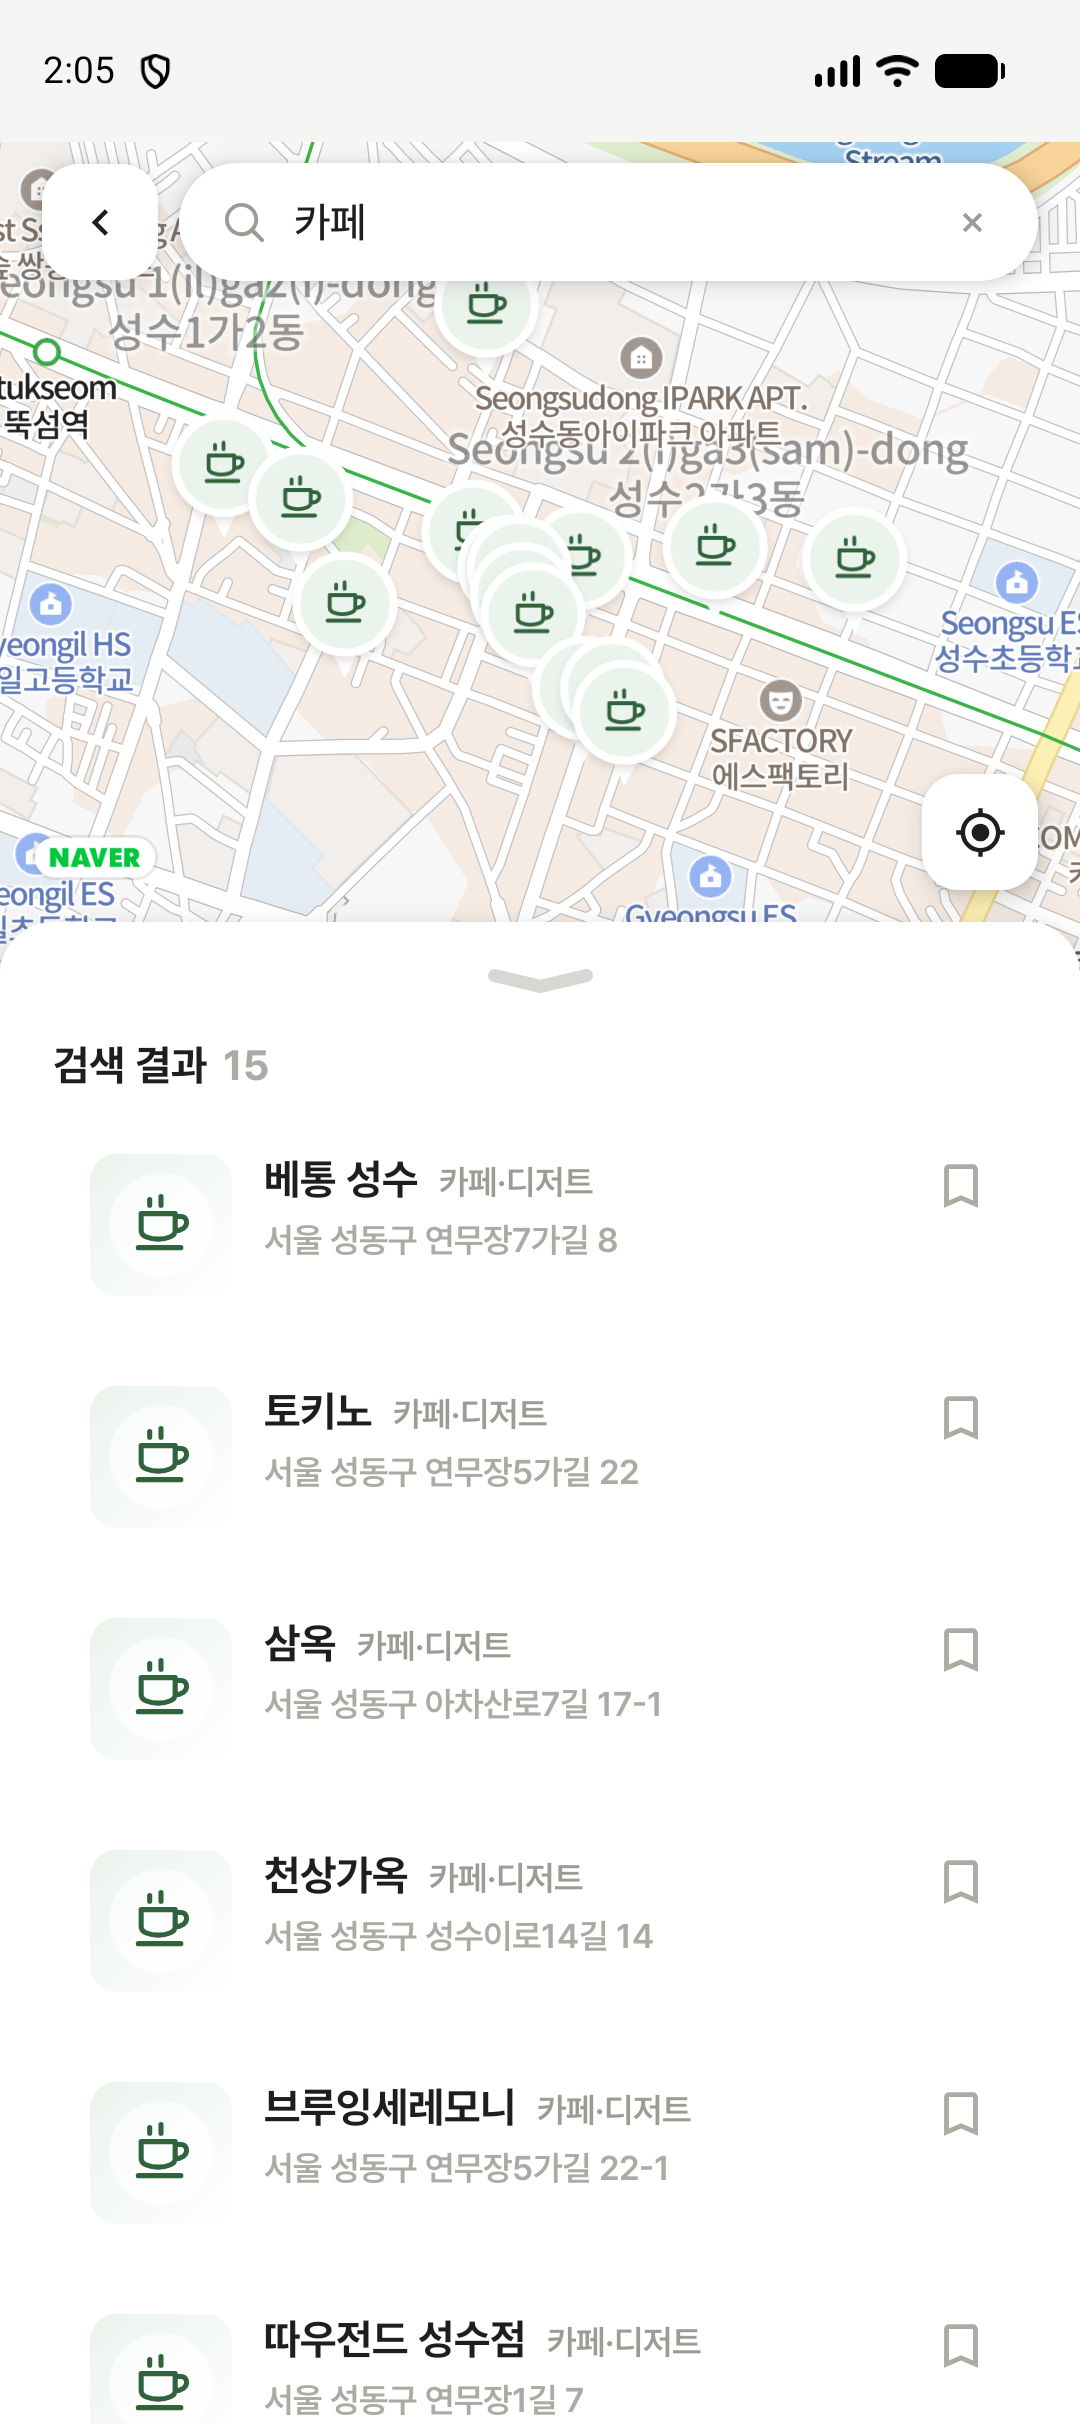
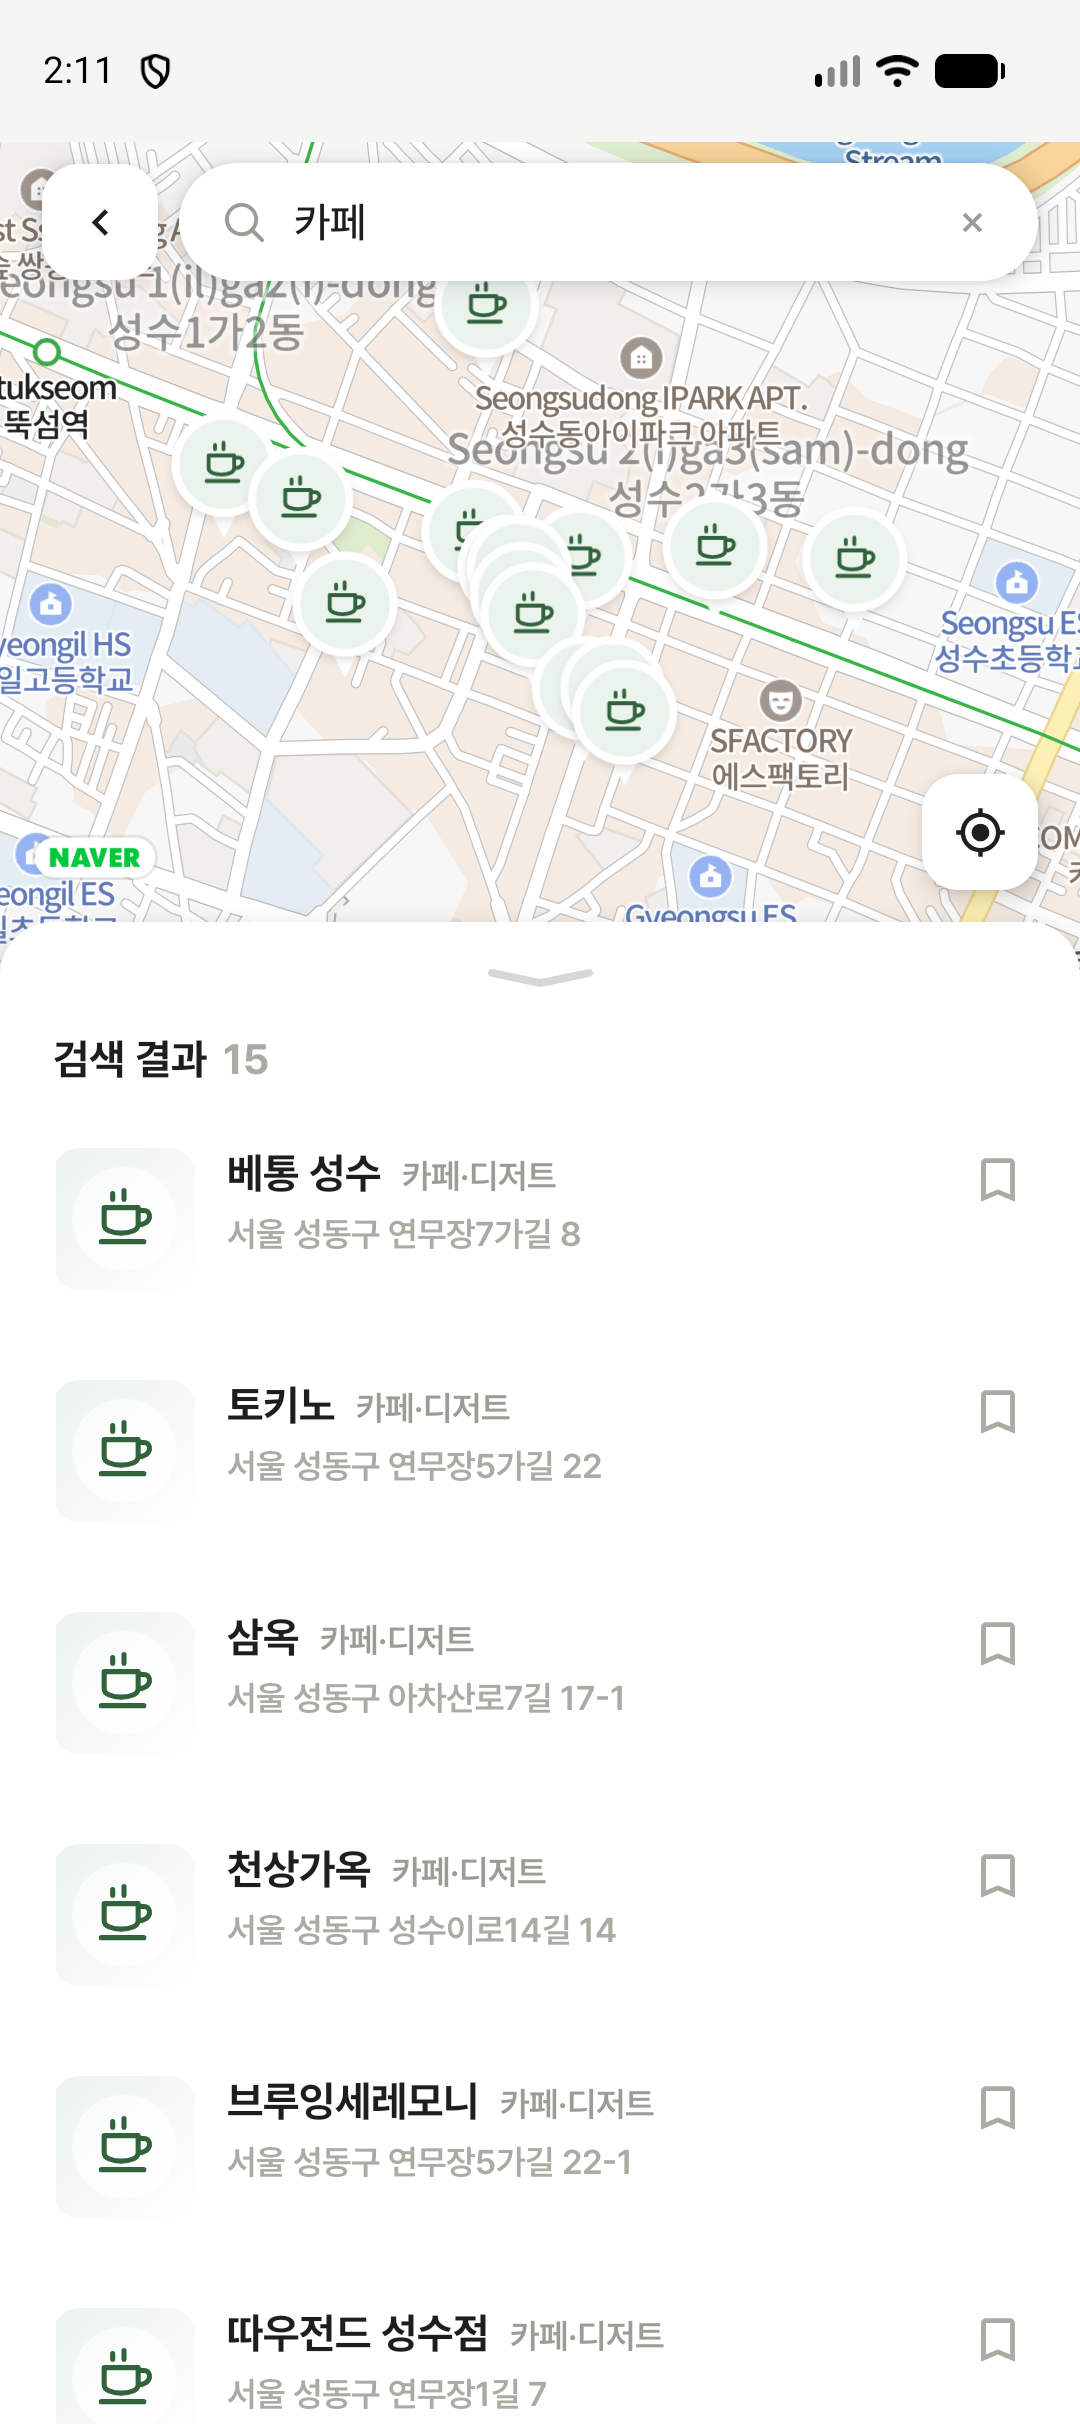
fix(main): 지도 검색 결과 행 좌우 여백 정렬·손잡이 얇게 (SCRUM-760)
- 결과 행 카드의 좌우 안쪽 여백(14dp)을 없애 썸네일·주소가 "검색 결과" 헤더와 같은
  x에서 시작하도록 맞춘다(좌우 공백 과다 해소).
- 시트 손잡이 두께를 5dp → 3dp 로 얇게.

diff --git a/main/presentation/src/main/java/com/chillsam/courmy/main/presentation/map/component/MapPlaceItems.kt b/main/presentation/src/main/java/com/chillsam/courmy/main/presentation/map/component/MapPlaceItems.kt
@@ -170,7 +170,8 @@ internal fun MapRankedPlaceRow(
                 .border(1.dp, if (isSelected) color.borderAccent else color.bgDefaultLevel1, CardShape)
                 .semantics { selected = isSelected }
                 .clickable(onClick = onClick)
-                .padding(horizontal = 14.dp, vertical = 12.dp),
+                // 썸네일·주소가 "검색 결과" 헤더와 같은 x에서 시작하도록 좌우 안쪽 여백은 두지 않는다.
+                .padding(vertical = 12.dp),
         // 3줄까지 늘어나므로 순위·썸네일·북마크를 세로 가운데가 아닌 상단에 맞춘다.
         verticalAlignment = Alignment.Top,
         horizontalArrangement = Arrangement.spacedBy(12.dp),

diff --git a/main/presentation/src/main/java/com/chillsam/courmy/main/presentation/map/component/MapSheet.kt b/main/presentation/src/main/java/com/chillsam/courmy/main/presentation/map/component/MapSheet.kt
@@ -25,7 +25,7 @@ import com.chillsam.courmy.common.presentation.ui.theme.DesignSystemThemeImpl
 private val SheetShape = RoundedCornerShape(topStart = 20.dp, topEnd = 20.dp)
 private val SheetElevation = 12.dp
 private val HandleWidth = 40.dp
-private val HandleHeight = 5.dp
+private val HandleHeight = 3.dp
 
 /** 손잡이를 살짝 꺾어 방향을 드러낼 때의 꺾임 깊이. */
 private val HandleBend = 4.dp
